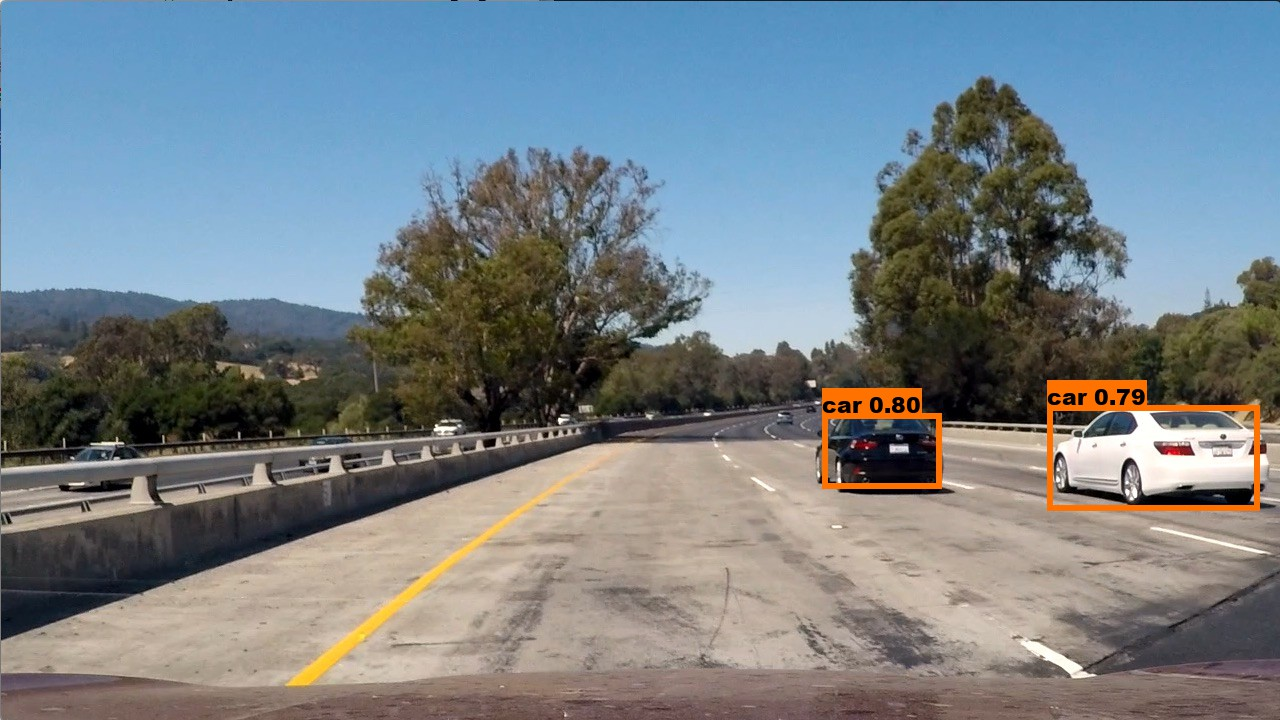
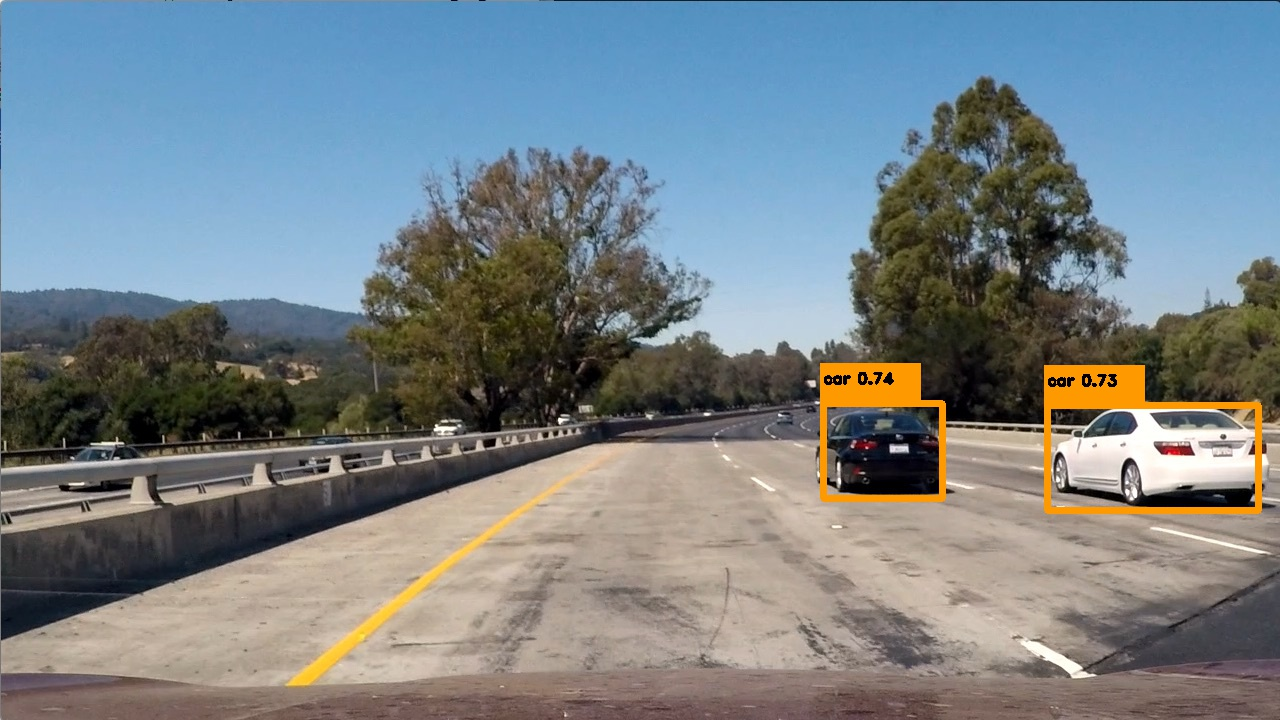
Generated output image

Changed region(s): [[0.8125, 0.4889, 1.0, 0.7333], [0.625, 0.4889, 0.75, 0.7028]]

diff --git a/yolo.py b/yolo.py
@@ -3,19 +3,22 @@ from keras import backend as K
 
 from bounding_box import Box
 from yad2k.models.keras_yolo import yolo_boxes_to_corners
-from yolo_utils import read_classes, read_anchors, preprocess_image, scale_boxes
+from utils import read_classes, read_anchors, preprocess_image, scale_boxes
 
 class_names = read_classes("model_data/coco_classes.txt")
 anchors = read_anchors("model_data/yolo_anchors.txt")
 
 
-def yolo_filter_boxes(box_confidence, boxes, box_class_probs, threshold=.6):
-    """Filters YOLO boxes by thresholding on object and class confidence.
+def filter_anchor_boxes(box_confidence, boxes, box_class_probs, threshold=.6):
+    """
+    Filters YOLO boxes by thresholding on object and class confidence
+    Filter any box for which the class "score" is less than a chosen threshold.
 
     Arguments:
-    box_confidence -- tensor of shape (19, 19, 5, 1)
-    boxes -- tensor of shape (19, 19, 5, 4)
-    box_class_probs -- tensor of shape (19, 19, 5, 80)
+
+    box_confidence -- tensor of shape (19, 19, 5, 1) - confidence probability that there's some object for each of the 5 boxes
+    boxes -- tensor of shape (19, 19, 5, 4) - (bx,by,bh,bw)  for each of the 5 boxes per cell.
+    box_class_probs -- tensor of shape (19, 19, 5, 80)- detection probabilities (c1,c2,...c80)  for each of the 80 classes for each of the 5 boxes per cell.
     threshold -- real value, if [ highest class probability score < threshold], then get rid of the corresponding box
 
     Returns:
@@ -25,19 +28,17 @@ def yolo_filter_boxes(box_confidence, boxes, box_class_probs, threshold=.6):
 
     """
 
-    # Step 1: Compute box scores
     box_scores = box_confidence * box_class_probs
 
-    # Step 2: Find the box_classes thanks to the max box_scores, keep track of the corresponding score
     box_classes = K.argmax(box_scores, axis=-1)  # returns index
     box_class_scores = K.max(box_scores, axis=-1, keepdims=False)  # returns max value
 
-    # Step 3: Create a filtering mask based on "box_class_scores" by using "threshold". The mask should have the
+    # Create a filtering mask based on "box_class_scores" by using "threshold". The mask should have the
     # same dimension as box_class_scores, and be True for the boxes you want to keep (with probability >= threshold)
     filtering_mask = tf.greater(box_class_scores,
                                 tf.constant(threshold))  # box_class_scores[box_class_scores < threshold]
 
-    # Step 4: Apply the mask to scores, boxes and classes
+    # Apply the mask to scores, boxes and classes
 
     scores = tf.boolean_mask(box_class_scores, filtering_mask)
     boxes = tf.boolean_mask(boxes, filtering_mask)
@@ -46,41 +47,14 @@ def yolo_filter_boxes(box_confidence, boxes, box_class_probs, threshold=.6):
     return scores, boxes, classes
 
 
-def iou(box1, box2):
-    """Implement the intersection over union (IoU) between box1 and box2
-
-    Arguments:
-    box1 -- first box, list object with coordinates (x1, y1, x2, y2)
-    box2 -- second box, list object with coordinates (x1, y1, x2, y2)
-    """
-
-    # Calculate the (y1, x1, y2, x2) coordinates of the intersection of box1 and box2. Calculate its Area.
-    xi1 = max(box1[0], box2[0])
-    yi1 = max(box1[1], box2[1])
-    xi2 = min(box1[2], box2[2])
-    yi2 = min(box1[3], box2[3])
-    inter_area = abs((yi2 - yi1) * (xi2 - xi1))
-
-    # Calculate the Union area by using Formula: Union(A,B) = A + B - Inter(A,B)
-
-    box1_area = abs((box1[1] - box1[3]) * (box1[0] - box1[2]))
-    box2_area = abs((box2[1] - box2[3]) * (box2[0] - box2[2]))
-    union_area = box1_area + box2_area - inter_area
-
-    # compute the IoU
-    iou = inter_area * 1.0 / union_area
-
-    return iou
-
-
-def yolo_non_max_suppression(scores, boxes, classes, max_boxes=10, iou_threshold=0.5):
+def non_max_suppression(scores, boxes, classes, max_boxes=10, iou_threshold=0.5):
     """
     Applies Non-max suppression (NMS) to set of boxes
 
     Arguments:
-    scores -- tensor of shape (None,), output of yolo_filter_boxes()
-    boxes -- tensor of shape (None, 4), output of yolo_filter_boxes() that have been scaled to the image size (see later)
-    classes -- tensor of shape (None,), output of yolo_filter_boxes()
+    scores -- tensor of shape (None,), output of filter_anchor_boxes()
+    boxes -- tensor of shape (None, 4), output of filter_anchor_boxes()
+    classes -- tensor of shape (None,), output of filter_anchor_boxes()
     max_boxes -- integer, maximum number of predicted boxes you'd like
     iou_threshold -- real value, "intersection over union" threshold used for NMS filtering
 
@@ -107,9 +81,9 @@ def yolo_non_max_suppression(scores, boxes, classes, max_boxes=10, iou_threshold
     return scores, boxes, classes
 
 
-def yolo_eval(yolo_outputs, image_shape=(720., 1280.), max_boxes=10, score_threshold=.6, iou_threshold=.5):
+def evaluate(yolo_outputs, image_shape=(720., 1280.), max_boxes=10, score_threshold=.5, iou_threshold=.5):
     """
-    Converts the output of YOLO encoding (a lot of boxes) to your predicted boxes along with their scores, box coordinates and classes.
+    Converts the output of YOLO encoding (yolo_outputs) to predicted boxes along with their scores, box coordinates and classes.
 
     Arguments:
     yolo_outputs -- output of the encoding model (for image_shape of (608, 608, 3)), contains 4 tensors:
@@ -117,8 +91,9 @@ def yolo_eval(yolo_outputs, image_shape=(720., 1280.), max_boxes=10, score_thres
                     box_xy: tensor of shape (None, 19, 19, 5, 2)
                     box_wh: tensor of shape (None, 19, 19, 5, 2)
                     box_class_probs: tensor of shape (None, 19, 19, 5, 80)
-    image_shape -- tensor of shape (2,) containing the input shape, in this notebook we use (608., 608.) (has to be float32 dtype)
-    max_boxes -- integer, maximum number of predicted boxes you'd like
+
+    image_shape -- tensor of shape (2,) original image shape
+    max_boxes -- integer, maximum number of predicted boxes
     score_threshold -- real value, if [ highest class probability score < threshold], then get rid of the corresponding box
     iou_threshold -- real value, "intersection over union" threshold used for NMS filtering
 
@@ -135,30 +110,32 @@ def yolo_eval(yolo_outputs, image_shape=(720., 1280.), max_boxes=10, score_thres
     boxes = yolo_boxes_to_corners(box_xy, box_wh)
 
     # Perform Score-filtering with a threshold of score_threshold
-    scores, boxes, classes = yolo_filter_boxes(box_confidence, boxes, box_class_probs, threshold=score_threshold)
+    scores, boxes, classes = filter_anchor_boxes(box_confidence, boxes, box_class_probs, threshold=score_threshold)
 
     # Scale boxes back to original image shape.
     boxes = scale_boxes(boxes, image_shape)
 
     # Non-max suppression with a threshold of iou_threshold
-    scores, boxes, classes = yolo_non_max_suppression(scores, boxes, classes, max_boxes, iou_threshold)
+    scores, boxes, classes = non_max_suppression(scores, boxes, classes, max_boxes, iou_threshold)
     return scores, boxes, classes
 
 
-def predict(sess, image, scores, boxes, classes, yolo_model):
+def predict_and_draw(sess, image, scores, boxes, classes, yolo_model):
     """
-    Runs the graph stored in "sess" to predict boxes for "image_file". Prints and plots the preditions.
+    Runs the graph stored in "sess" to predict boxes and draw bounding boxes
 
     Arguments:
     sess -- your tensorflow/Keras session containing the YOLO graph
-    image_file -- name of an image stored in the "images" folder.
+    image - Original Image
+    scores -- tensor of shape (None, ), predicted score for each box
+    boxes -- tensor of shape (None, 4), predicted box coordinates
+    classes -- tensor of shape (None,), predicted class for each box
+    yolo_model - pre-trained YOLO Model
+
 
     Returns:
-    out_scores -- tensor of shape (None, ), scores of the predicted boxes
-    out_boxes -- tensor of shape (None, 4), coordinates of the predicted boxes
-    out_classes -- tensor of shape (None, ), class index of the predicted boxes
+    image -- Image with bounding box drawn
 
-    Note: "None" actually represents the number of predicted boxes, it varies between 0 and max_boxes.
     """
 
     # Preprocess your image
@@ -170,7 +147,6 @@ def predict(sess, image, scores, boxes, classes, yolo_model):
                                                   feed_dict={yolo_model.input: image_data, K.learning_phase(): 0})
 
     # Draw bounding boxes on the image file
-    # draw_cv2_boxes(image, out_scores, out_boxes, out_classes, class_names)
     box = Box(image, out_scores, out_boxes, out_classes, class_names)
     box.draw_boxes()
 

diff --git a/yolo_pipeline.py b/yolo_pipeline.py
@@ -2,9 +2,10 @@ import cv2
 import matplotlib.pyplot as plt
 from keras import backend as K
 from keras.models import load_model
+import glob
 
 from yad2k.models.keras_yolo import yolo_head
-from yolo import yolo_eval, predict, class_names, anchors
+from yolo import evaluate, predict_and_draw, class_names, anchors
 
 sess = K.get_session()
 yolo_model = load_model("model_data/yolo.h5")
@@ -12,27 +13,16 @@ yolo_outputs = yolo_head(yolo_model.output, anchors, len(class_names))
 
 
 def pipeline(image):
-    scores, boxes, classes = yolo_eval(yolo_outputs)
-    image_pred = predict(sess, image, scores, boxes, classes, yolo_model)
+    scores, boxes, classes = evaluate(yolo_outputs)
+    image_pred = predict_and_draw(sess, image, scores, boxes, classes, yolo_model)
     return image_pred
 
 
 if __name__ == '__main__':
-    image_path = "test_images/test4.jpg"
+    images = glob.glob('test_images/test3*.jpg')
 
-    img = cv2.imread(image_path)
-    image = pipeline(img)
-
-    image = cv2.cvtColor(img, cv2.COLOR_BGR2RGB)
-
-    f, ax = plt.subplots(1, 1, figsize=(15, 8))
-    # f, (ax1, ax2, ax3, ax4, ax5, ax6) = plt.subplot2grid(2, 3, figsize=(15, 8))
-    f.tight_layout()
-
-    ax.imshow(image)
-    ax.set_title('Drawn', fontsize=15)
-
-    print("")
-
-    # cv2.imshow("preview", image)
-    # cv2.waicv2.waitKey(500)
+    for image_path in images:
+        img = cv2.imread(image_path)
+        image = pipeline(img)
+        name = image_path.split("\\")[1].split('.')[0]+'.jpg'
+        cv2.imwrite('output_images/' + name, image)
